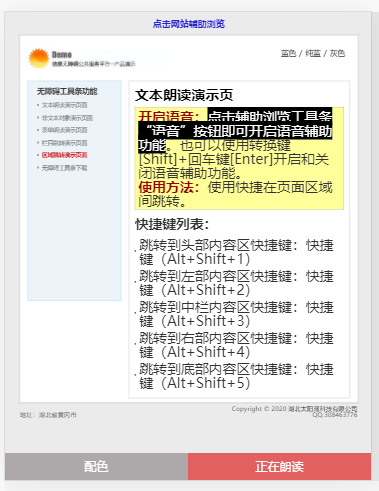
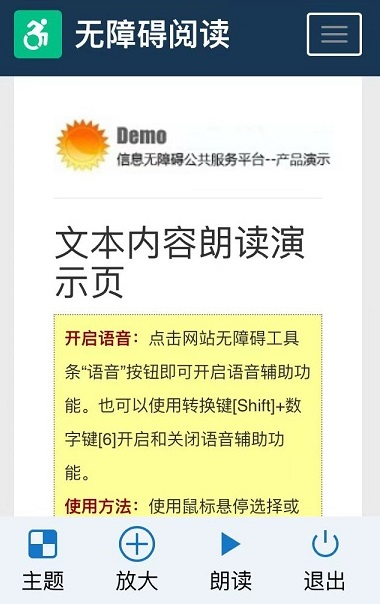
手机端无障碍工具条升级

diff --git a/README.md b/README.md
@@ -77,7 +77,7 @@
 - 朗读功能：全页面朗读，可以指定开始位置朗读
 - 放大功能：页面字体5级放大
 - 代码获取 [https://www.rrbay.com/tools/wzatool.html](https://www.rrbay.com/tools/wzatool.html "一行代码部署移动端无障碍工具条")
-- 手机端效果演示 [https://www.rrbay.com/contact](https://www.rrbay.com/contact "用手机打开此页面")
+- 手机端效果演示 [http://www.qqqao.com](http://www.qqqao.com "用手机打开此页面")
 
 ## 2020-12-12 一键部署无障碍工具条
 - 一行代码部署无障碍工具条
@@ -116,6 +116,11 @@
 - 新增智能解析接口
 - Tab键细节处理
 - 工具条快捷键重新设计
+- 优化一些功能
+
+## 2023-11-05 无障碍工具条4.1版本更新说明
+- 手机端无障碍工具条升级
+- 电脑端无障碍工具条显示屏显示字体问题
 - 优化一些功能
 
 ### License

diff --git a/工具条移动端安装部署.md b/工具条移动端安装部署.md
@@ -41,7 +41,7 @@
 ### 演示站点
 
 - 获取代码 [https://www.rrbay.com/tools/wzatool.html](https://www.rrbay.com/tools/wzatool.html "一行代码部署移动端无障碍工具条")
-- 手机端效果演示 [https://www.rrbay.com/contact](https://www.rrbay.com/contact "用手机打开此页面")
+- 手机端效果演示 [http://www.qqqao.com/](http://www.qqqao.com/ "用手机打开此页面")
 
 ### License
 
